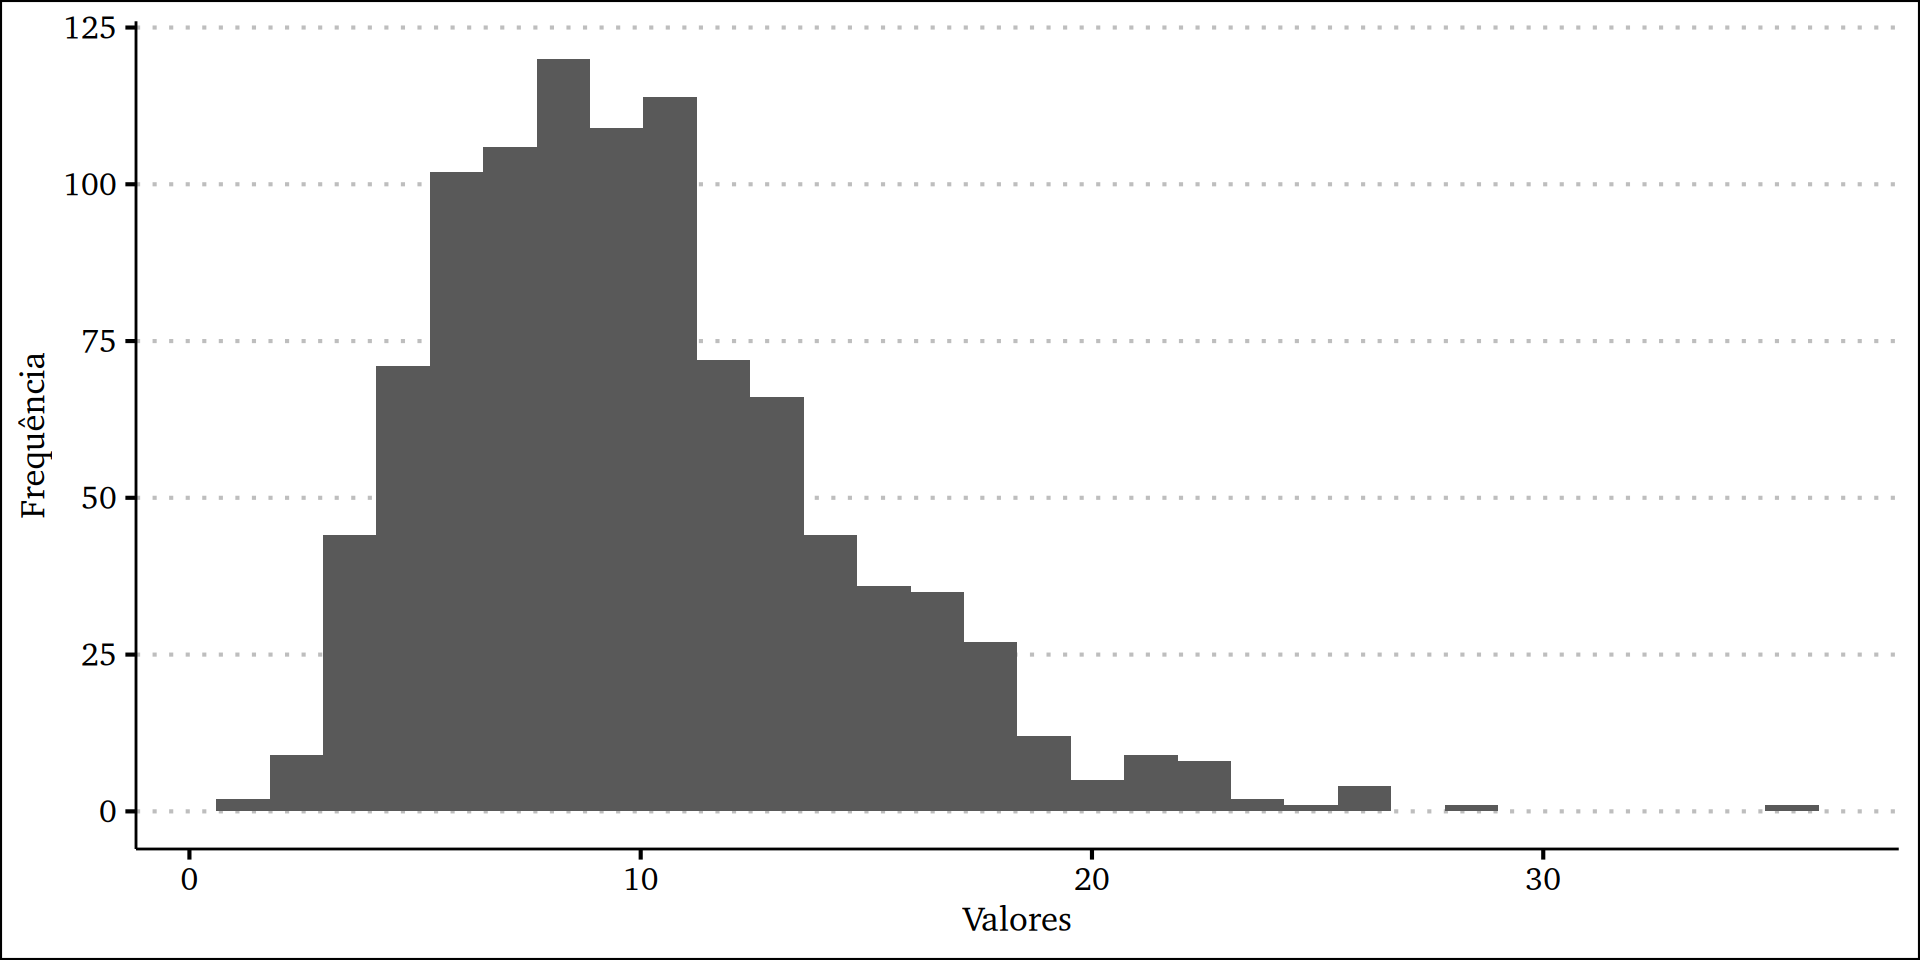
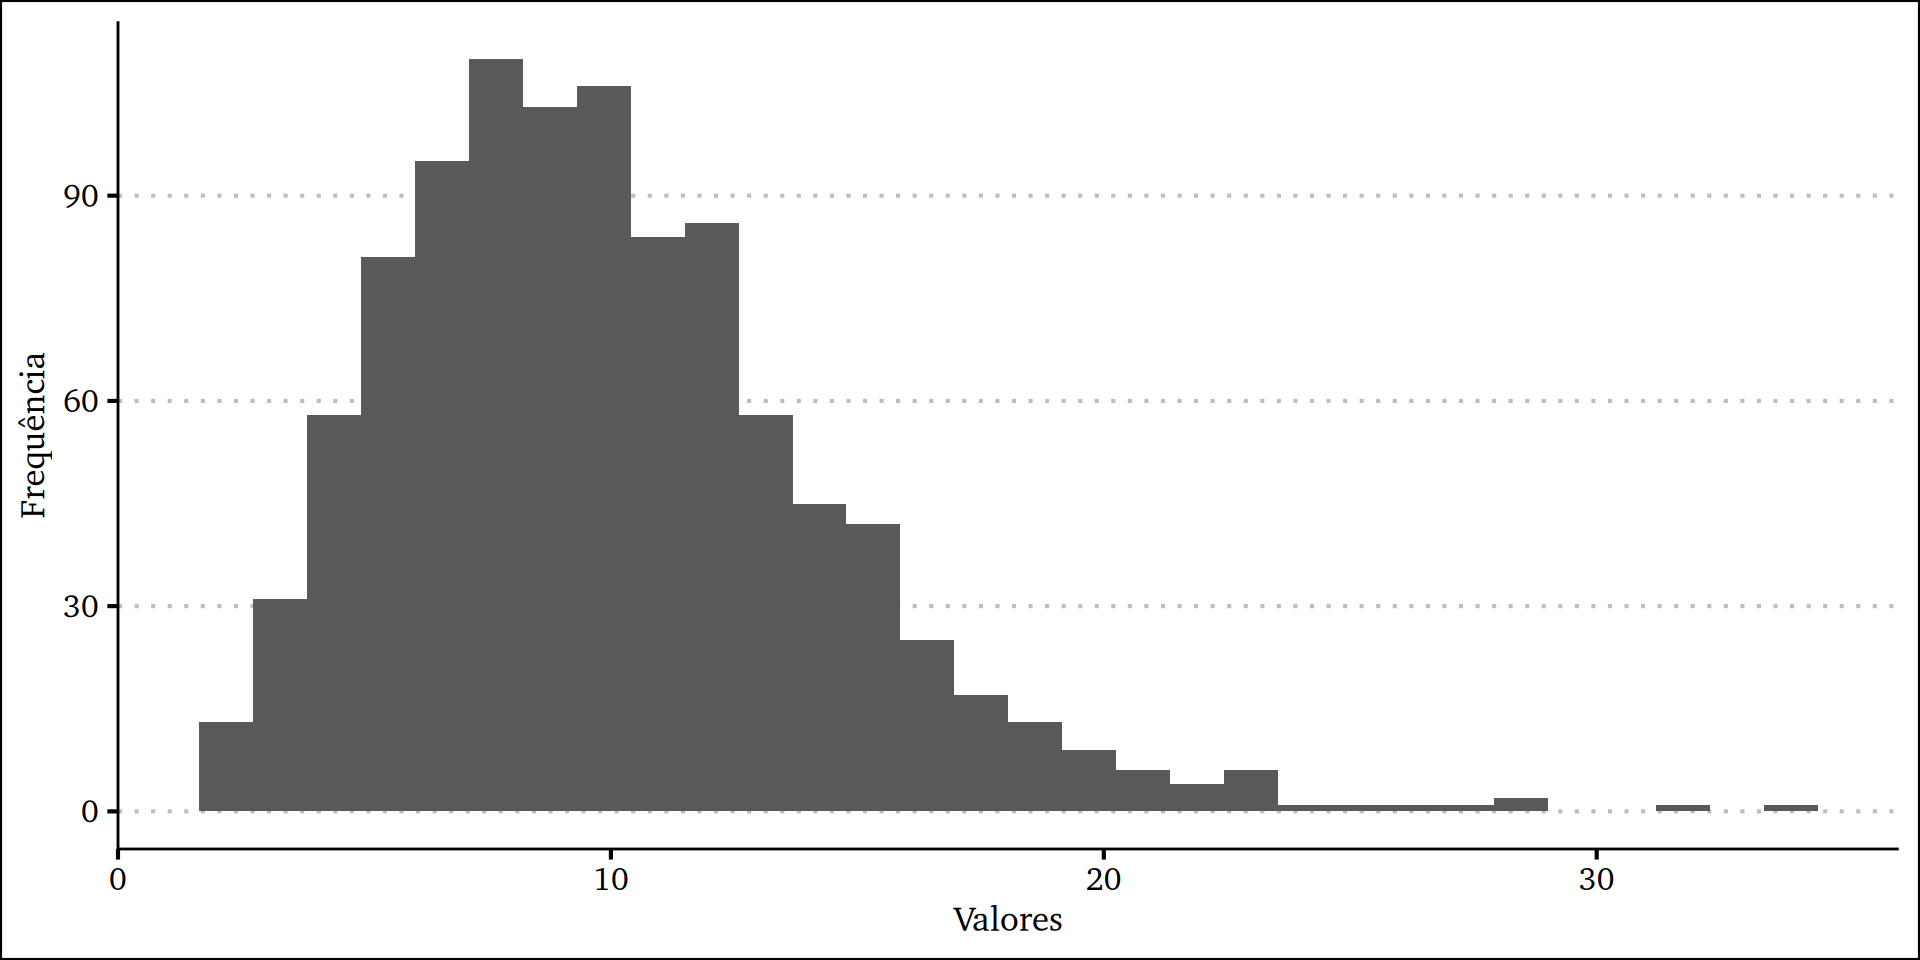
adicionar dois slides sobre transformação de dados na aula 4 de análise descritiva

diff --git a/docs/slides/4_descritiva/slides_descritiva.html b/docs/slides/4_descritiva/slides_descritiva.html
@@ -402,7 +402,7 @@ Bruno Montezano
     </div>
 </div>
 
-  <p class="date">28 de março de 2023</p>
+  <p class="date">29 de março de 2023</p>
 </section>
 <section id="conteúdo-de-hoje" class="slide level2">
 <h2>Conteúdo de hoje</h2>
@@ -846,11 +846,66 @@ W = 0.95921, p-value = 0.00000003679</code></pre>
 </div>
 </div>
 </div>
+</div>
+</section>
+<section id="transformação-de-dados" class="slide level2">
+<h2>Transformação de dados</h2>
+<p>Em alguns casos, os dados podem apresentar distribuições muito distorcidas, o que pode afetar a validade dos testes estatísticos aplicados.</p>
+<div class="fragment">
+<p>Para resolver esse problema, uma solução comum é aplicar uma transformação aos dados para deixá-los mais próximos de uma distribuição normal.</p>
+</div>
+<div class="fragment">
+<div class="cell" data-layout-align="center">
+<div class="cell-output-display">
+<div class="quarto-figure quarto-figure-center">
+<figure>
+<p><img data-src="slides_descritiva_files/figure-revealjs/plot-transformacao-de-dados-1.png" style="width:70.0%"></p>
+</figure>
+</div>
+</div>
+</div>
+</div>
+</section>
+<section id="transformando-a-massa_corporal" class="slide level2">
+<h2>Transformando a <code>massa_corporal</code></h2>
+<div class="columns">
+<div class="column" style="width:50%;">
+<div class="cell" data-layout-align="center">
+<div class="sourceCode cell-code" id="cb34"><pre class="sourceCode numberSource r number-lines code-with-copy"><code class="sourceCode r"><span id="cb34-1"><a href="#cb34-1"></a>pinguins <span class="sc">|&gt;</span></span>
+<span id="cb34-2"><a href="#cb34-2"></a>  <span class="fu">ggplot</span>(<span class="fu">aes</span>(<span class="at">x =</span> massa_corporal)) <span class="sc">+</span></span>
+<span id="cb34-3"><a href="#cb34-3"></a>  <span class="fu">geom_histogram</span>(<span class="at">fill =</span> <span class="st">"coral2"</span>) <span class="sc">+</span></span>
+<span id="cb34-4"><a href="#cb34-4"></a>  <span class="fu">labs</span>(<span class="at">x =</span> <span class="st">"Massa corporal (em gramas)"</span>,</span>
+<span id="cb34-5"><a href="#cb34-5"></a>       <span class="at">y =</span> <span class="st">"Frequência"</span>) <span class="sc">+</span></span>
+<span id="cb34-6"><a href="#cb34-6"></a>  <span class="fu">theme_bw</span>(<span class="at">base_size =</span> <span class="dv">16</span>,</span>
+<span id="cb34-7"><a href="#cb34-7"></a>           <span class="at">base_family =</span> <span class="st">"Charter"</span>)</span></code><button title="Copiar para a área de transferência" class="code-copy-button"><i class="bi"></i></button></pre></div>
+<div class="cell-output-display">
+<div class="quarto-figure quarto-figure-center">
+<figure>
+<p><img data-src="slides_descritiva_files/figure-revealjs/histograma-massa-corporal-dois-1.png" style="width:100.0%"></p>
+</figure>
+</div>
+</div>
+</div>
+</div><div class="column" style="width:50%;">
+<div class="cell">
+<div class="sourceCode cell-code" id="cb35"><pre class="sourceCode numberSource r number-lines code-with-copy"><code class="sourceCode r"><span id="cb35-1"><a href="#cb35-1"></a>pinguins <span class="sc">|&gt;</span></span>
+<span id="cb35-2"><a href="#cb35-2"></a>  <span class="fu">mutate</span>(<span class="at">massa_log =</span> <span class="fu">log10</span>(massa_corporal)) <span class="sc">|&gt;</span></span>
+<span id="cb35-3"><a href="#cb35-3"></a>  <span class="fu">ggplot</span>(<span class="fu">aes</span>(<span class="at">x =</span> massa_log)) <span class="sc">+</span></span>
+<span id="cb35-4"><a href="#cb35-4"></a>  <span class="fu">geom_histogram</span>(<span class="at">fill =</span> <span class="st">"deepskyblue4"</span>) <span class="sc">+</span></span>
+<span id="cb35-5"><a href="#cb35-5"></a>  <span class="fu">labs</span>(<span class="at">x =</span> <span class="st">"Log da massa corporal"</span>,</span>
+<span id="cb35-6"><a href="#cb35-6"></a>       <span class="at">y =</span> <span class="st">"Frequência"</span>) <span class="sc">+</span></span>
+<span id="cb35-7"><a href="#cb35-7"></a>  <span class="fu">theme_bw</span>(<span class="at">base_size =</span> <span class="dv">16</span>,</span>
+<span id="cb35-8"><a href="#cb35-8"></a>           <span class="at">base_family =</span> <span class="st">"Charter"</span>)</span></code><button title="Copiar para a área de transferência" class="code-copy-button"><i class="bi"></i></button></pre></div>
+<div class="cell-output-display">
+<p><img data-src="slides_descritiva_files/figure-revealjs/log-massa-corporal-1.png" width="960"></p>
+</div>
+</div>
+</div>
+</div>
 
 <p><img src="../assets/logo_ufrgs.png" class="slide-logo"></p>
 <div class="footer footer-default">
 
-</div>
 </div>
 </section>
 
